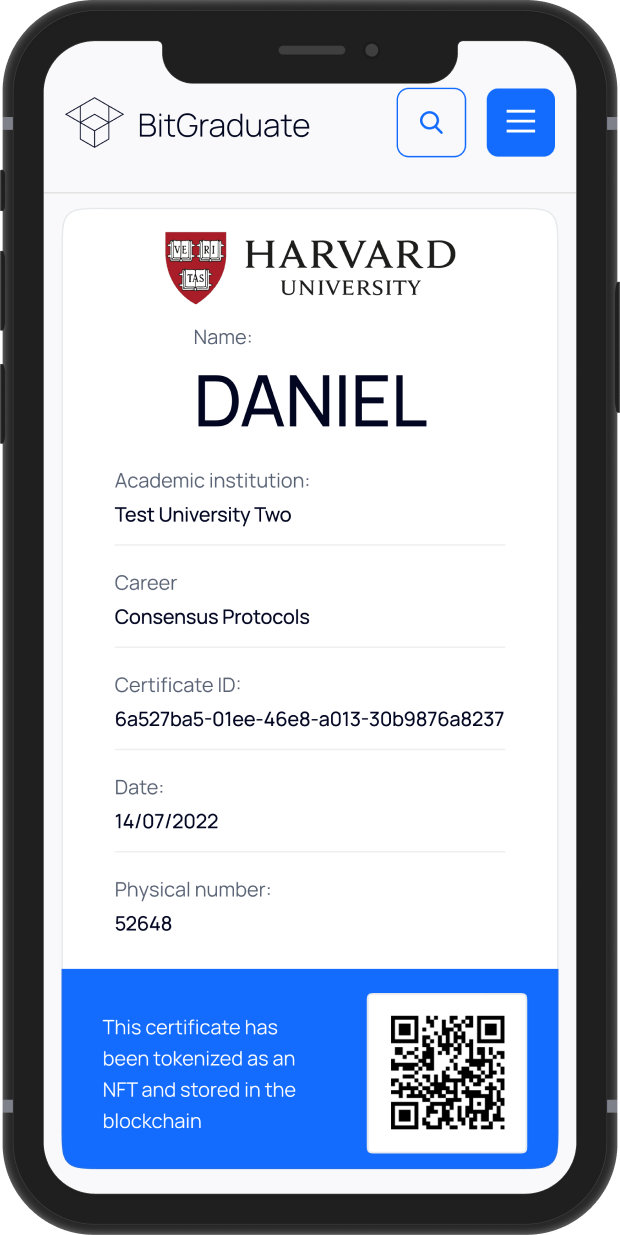
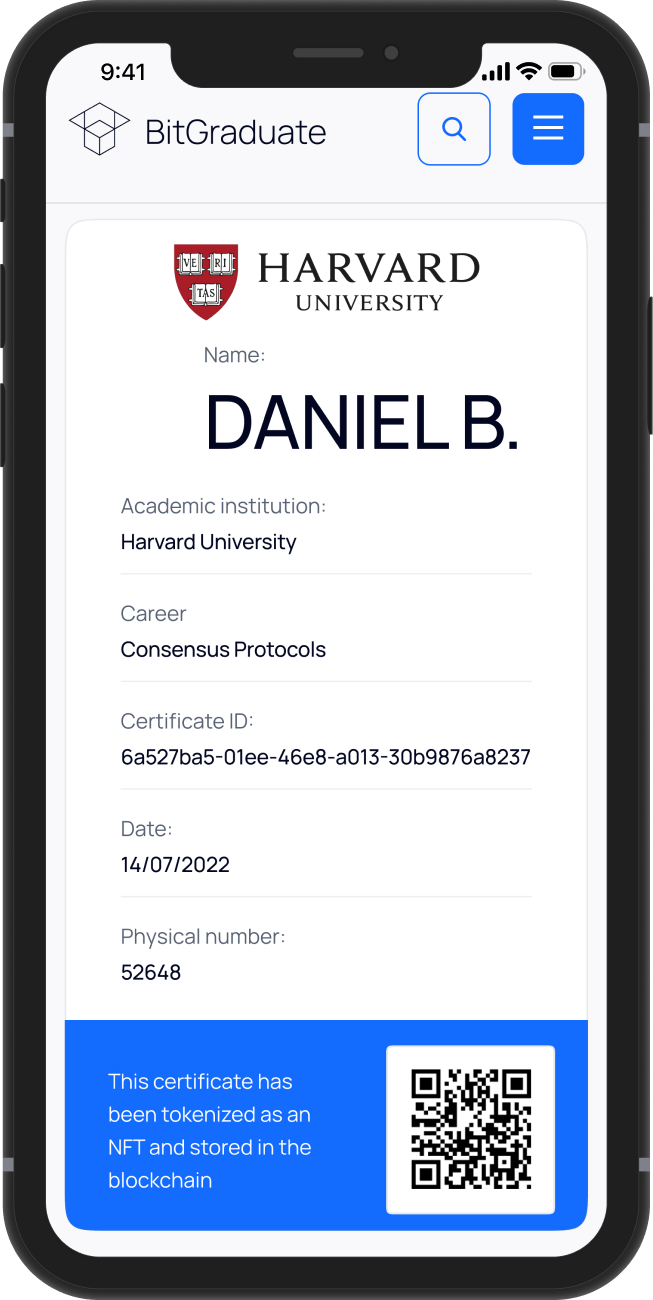
Update images and adaptation for bg case

diff --git a/src/pages/cases/[id]/ui/custom-hero/bit-graduate.component.tsx b/src/pages/cases/[id]/ui/custom-hero/bit-graduate.component.tsx
@@ -56,7 +56,7 @@ export const BitGraduate = (props: IBitGraduateProperties) => {
 
     const fixScroll = setTimeout(() => {
       window.scrollTo(0, 0);
-    }, 400);
+    }, 310);
 
     const afterAnimation = setTimeout(() => {
       window.scrollTo(0, 0);
@@ -90,7 +90,7 @@ export const BitGraduate = (props: IBitGraduateProperties) => {
           },
         }}
       >
-        <div className="container relative z-10 mt-28 flex h-[70%] justify-between items-center gap-10 t-xs:flex-col t-xs:gap-8 t-xs:mt-[5.5rem] t-xs:min-h-[calc(100vh_-_5.5rem)]">
+        <div className="container relative z-10 mt-28 flex h-[70%] justify-between items-center gap-10 t-xs:flex-col t-xs:gap-8 t-xs:mt-[5.5rem] t-xs:h-[calc(100vh_-_5.5rem)] t-xs:justify-start overflow-hidden">
           <motion.div
             className="absolute top-1/2 flex items-center gap-2 whitespace-nowrap text-bg-gradient"
             initial={{
@@ -177,7 +177,7 @@ export const BitGraduate = (props: IBitGraduateProperties) => {
           </motion.div>
 
           <motion.div
-            className="relative block aspect-[5/3] w-full t-xs:w-80 t-xs:aspect-[0.85] t-xs:drop-shadow-2xl"
+            className="relative block aspect-[5/3] w-full t-xs:w-[19.375rem] t-xs:aspect-auto t-xs:drop-shadow-2xl"
             initial={{
               opacity: 0,
               transform: "translateY(200%)",
@@ -192,7 +192,11 @@ export const BitGraduate = (props: IBitGraduateProperties) => {
               },
             }}
           >
-            <Image src={isMobile ? MobileHero : Hero} alt="BitGraduate" fill />
+            <Image
+              src={isMobile ? MobileHero : Hero}
+              alt="BitGraduate"
+              style={{ objectFit: "contain" }}
+            />
           </motion.div>
         </div>
 
@@ -231,6 +235,22 @@ export const BitGraduate = (props: IBitGraduateProperties) => {
           <AnimatedBackground className="h-full w-full" />
         </motion.div>
       </motion.div>
+
+      {/* Mobile inner shadow */}
+      {isMobile && (
+        <motion.div
+          initial={{ opacity: 0 }}
+          animate={{
+            opacity: 1,
+            transition: {
+              duration: STAGES["stage-2"].duration,
+              delay: STAGES["stage-2"].delay,
+              ease: STAGES["stage-2"].ease,
+            },
+          }}
+          className="absolute bottom-0 left-0 w-full h-4 bg-gradient-to-t from-[rgba(0,0,0,0.25)] z-10"
+        ></motion.div>
+      )}
 
       <CaseGoal data={data} locale={locale} langData={langData} containerClassNames="mb-12" />
     </>

diff --git a/src/pages/cases/[id]/ui/custom-main/bit-graduate-storage.component.tsx b/src/pages/cases/[id]/ui/custom-main/bit-graduate-storage.component.tsx
@@ -43,24 +43,24 @@ export const BitGraduateStorage = () => {
         <Splide
           hasTrack={false}
           options={{
-            gap: "3rem",
+            gap: "4rem",
             pagination: false,
-            padding: "2rem",
+            padding: "3.5rem",
           }}
-          className="container !py-10"
+          className="pb-10"
           aria-label="BitGraduate Storage Mobile Slider"
         >
-          <SplideTrack className="pb-10">
-            <SplideSlide className="drop-shadow-xl">
+          <SplideTrack className="pb-10 pt-10">
+            <SplideSlide className="drop-shadow-b">
               <Image src={MobileImage1} alt="Info" style={{ objectFit: "contain" }} />
             </SplideSlide>
-            <SplideSlide className="drop-shadow-xl">
+            <SplideSlide className="drop-shadow-b">
               <Image src={MobileImage2} alt="Info" style={{ objectFit: "contain" }} />
             </SplideSlide>
-            <SplideSlide className="drop-shadow-xl">
+            <SplideSlide className="drop-shadow-b">
               <Image src={MobileImage3} alt="Info" style={{ objectFit: "contain" }} />
             </SplideSlide>
-            <SplideSlide className="drop-shadow-xl">
+            <SplideSlide className="drop-shadow-b">
               <Image src={MobileImage4} alt="Info" style={{ objectFit: "contain" }} />
             </SplideSlide>
           </SplideTrack>

diff --git a/tailwind.config.js b/tailwind.config.js
@@ -120,11 +120,13 @@ module.exports = {
       },
       boxShadow: {
         "8dp": "0px 0px 2px rgba(0, 0, 0, 0.08), 0px 4px 16px rgba(0, 0, 0, 0.08)",
+        "10dp": "-10px 10px 10px 0px rgba(0, 0, 0, 0.25)",
         "16dp": "0px 0px 8px rgba(0, 0, 0, 0.12), 0px 16px 16px rgba(0, 0, 0, 0.1)",
         navbar: "0px 0px 1px rgba(0, 0, 0, 0.05), 0px 4px 20px rgba(15, 26, 32, 0.08)",
       },
       dropShadow: {
         l: "-8px 8px 16px rgba(0, 0, 0, 0.2)",
+        b: "-10px 10px 10px rgba(0, 0, 0, 0.25)",
       },
       keyframes: {
         "move-in": {
